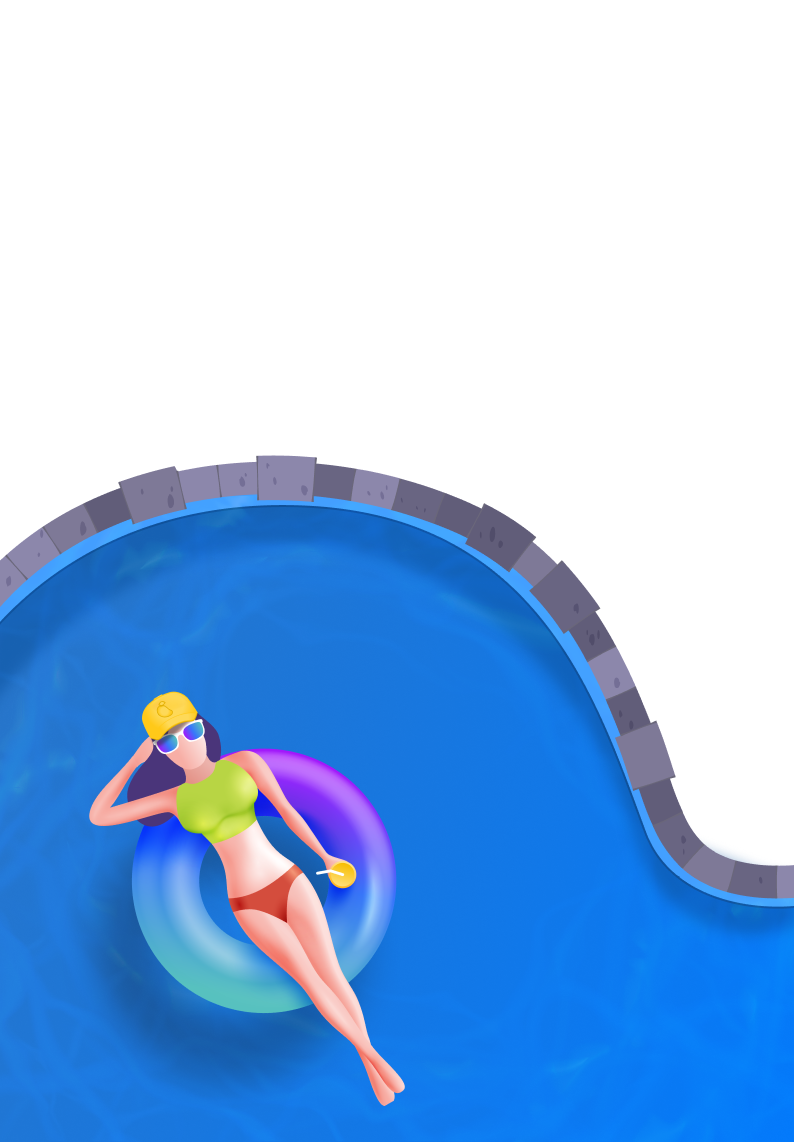
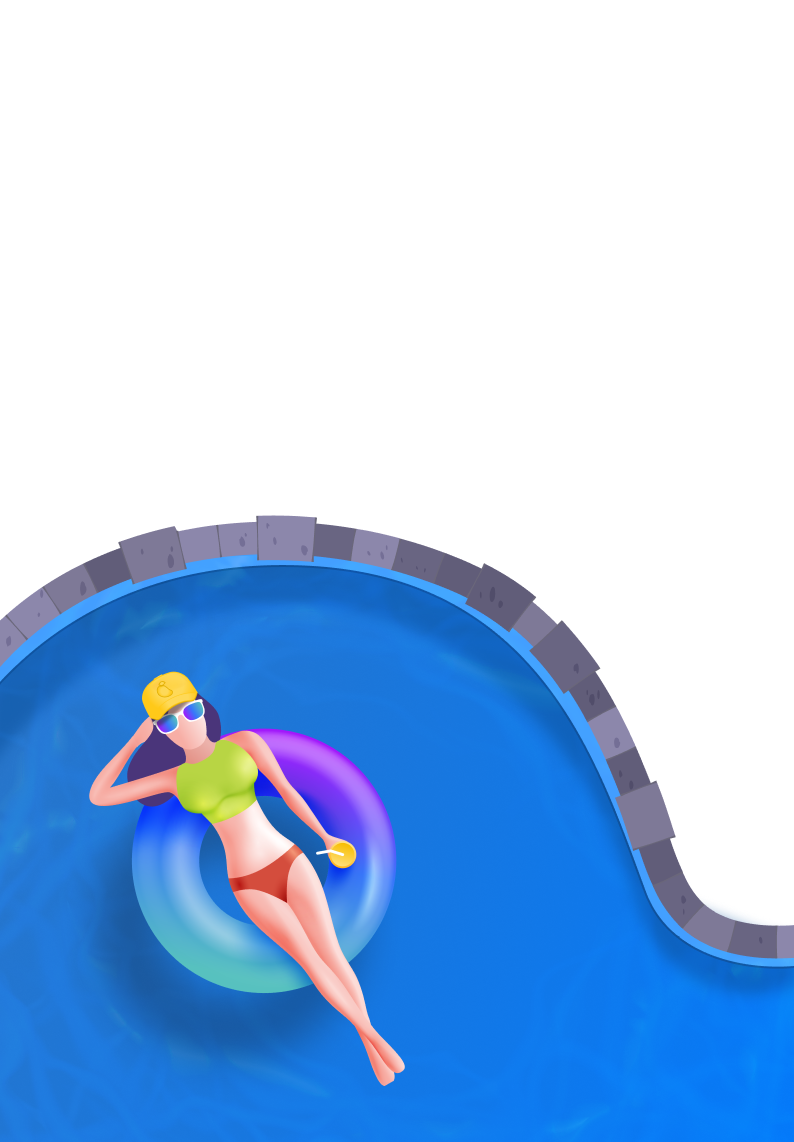
first stab at the text in each card

Changed region(s): [[0.0, 0.3984, 1.0, 0.8888], [0.0907, 0.5823, 0.5139, 0.9807], [0.272, 0.9194, 0.3023, 0.9501]]

diff --git a/components/ContentSectionRedeem.tsx b/components/ContentSectionRedeem.tsx
@@ -24,24 +24,34 @@ const ContentSectionRedeem = () => {
                   <div className="py-4 px-8 mt-3">
                     <div className="flex flex-col mb-8">
                       <h2 className="text-white font-semibold text-xl tracking-wide mb-2">
-                        With great power comes great responsibility
+                        With power comes great responsibility.
                       </h2>
                       <p className="text-white text-opacity-70 text-base">
-                        Mango is the first DAO on solana to use on-chain governance, as mango holders our highest responsibility is to command the DAO. We need to figure out how this will work, we need to figure out the rules ourselves. We&apos;re building the constitution. {' '}
+                        Mango is the first DAO on Solana to use on-chain governance, this is a big step towrds complete decentralization. 
+                        It means that founding members do not control the DAO, the DAO is actually controlled by all of us; the MNGO holders. 
+                        <br />
+                        <br /> 
+                        As MNGO holders our highest responsibility is to command and protect the DAO and it&apos;s value. Holders have the responsibility to make the rules and decide on the protocols future.
+                        Together we will build the constitution, together we will push for progress, together we will grow the protocol.  {' '}
                       </p>
                     </div>
                   </div>
                 </div>
               </div>
               <div className="col-span-3 lg:col-span-1">
-                <div className="bg-bkg-3 border border-bkg-4 bg-redeem-three bg-cover bg-bottom bg-no-repeat h-650 w-full shadow-md rounded-xl overflow-hidden mx-auto">
+                <div className="bg-bkg-3 border border-bkg-4 bg-redeem-three bg-contain bg-bottom bg-no-repeat h-650 w-full shadow-md rounded-xl overflow-hidden mx-auto">
                   <div className="py-4 px-8 mt-3">
                     <div className="flex flex-col mb-8">
                       <h2 className="text-white font-semibold text-xl tracking-wide mb-2">
-                        Getting MNGO on V3
+                        MNGO in the pool?
                       </h2>
                       <p className="text-white text-opacity-70 text-base">
-                        MNGO should be traded on mango v3 at launch, that means mango needs decent liquidity on-par with other tokens. There are no backroom deals, no one hired a market maker to provide liquidity so we need to come together and provide liquidity in raydium pool.
+                        We all want MNGO to be traded on Mango V3 at launch. This means MNGO needs liquidity 
+                        on-par with other top traded tokens on serum. There are no backroom deals, no one officially to make markets for us.
+                        <br />
+                        <br />
+                        We will be creating a Raydium pool with incentives to help provide initial liquidity but
+                        we also need the community to add liquidity to the pool and orderbooks.
                       </p>
                     </div>
                   </div>
@@ -55,7 +65,7 @@ const ContentSectionRedeem = () => {
                   <div className="py-4 px-8 mt-3">
                     <div className="flex flex-col mb-8">
                       <h2 className="text-white font-semibold text-xl tracking-wide mb-2">
-                          Everyone can become a mango market maker
+                          MNGO holder &amp; maker of markets.
                       </h2>
                       <p className="text-white text-opacity-70 text-base">
                           Provide liquidity on the upcoming perp markets, the DAO will vote on liquidity incentives for perp markets,
@@ -71,13 +81,17 @@ const ContentSectionRedeem = () => {
                   <div className="py-4 px-8 mt-3">
                     <div className="flex flex-col mb-8">
                       <h2 className="text-white font-semibold text-xl tracking-wide mb-2">
-                        Road to decentralization
+                        The road to full decentralization.
                       </h2>
                       <p className="text-white text-opacity-70 text-base mb-4">
                         Starts off with the feeling (heres what we&apos;ve done to keep mango decentralized) ends with the CTA of (heres how you can help, heres what we need) 
                       </p>
-                      <p>rough tech roadmap with link to trello</p>
-                      <p>if you can help us build it, send us proposals the DAO will vote on grants</p>
+                      <p className="text-white text-opacity-70 text-base mb-4">
+                        rough tech roadmap with link to trello
+                        </p>
+                      <p className="text-white text-opacity-70 text-base mb-4">
+                        if you can help us build it, send us proposals the DAO will vote on grants
+                        </p>
 
 
                     </div>
